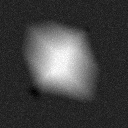
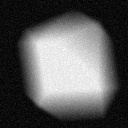
added pics for pres

diff --git a/Simulation/main.py b/Simulation/main.py
@@ -13,7 +13,7 @@ import addDeformation as aD
 import sys
 import random
 
-sf = 2
+sf = 1
 
 #Set of functions
 #Function to add noise to the matrix
@@ -173,10 +173,10 @@ for g in range(1):
     #plt.figure(figsize=(5,5))
     plt.pcolormesh(xRange, yRange, image, cmap="Greys_r")
     
-    plt.show()
+    #plt.show()
     #plt.savefig('SimulationImages/Spheres/plot'+str(sys.argv[i])+'.png')     #sys.argv is the input from the bash script
     #plt.savefig('/home/z/Documents/pics/1deform/image' + str(sys.argv[1]) + '.png', bbox_inches='tight', pad_inches = 0)     #sys.argv is the input from the bash script made for 1deform on linux rn
-    plt.imsave('/home/z/Documents/projectImages256/' + str(sys.argv[3]) + '/test' + str(sys.argv[1]) + '.jpg',image,format='jpg',cmap = 'gray')
+    plt.imsave('/home/z/Documents/projectImages128/' + str(sys.argv[3]) + '/test' + str(sys.argv[1]) + '.jpg',image,format='jpg',cmap = 'gray')
     plt.close()
 
 
